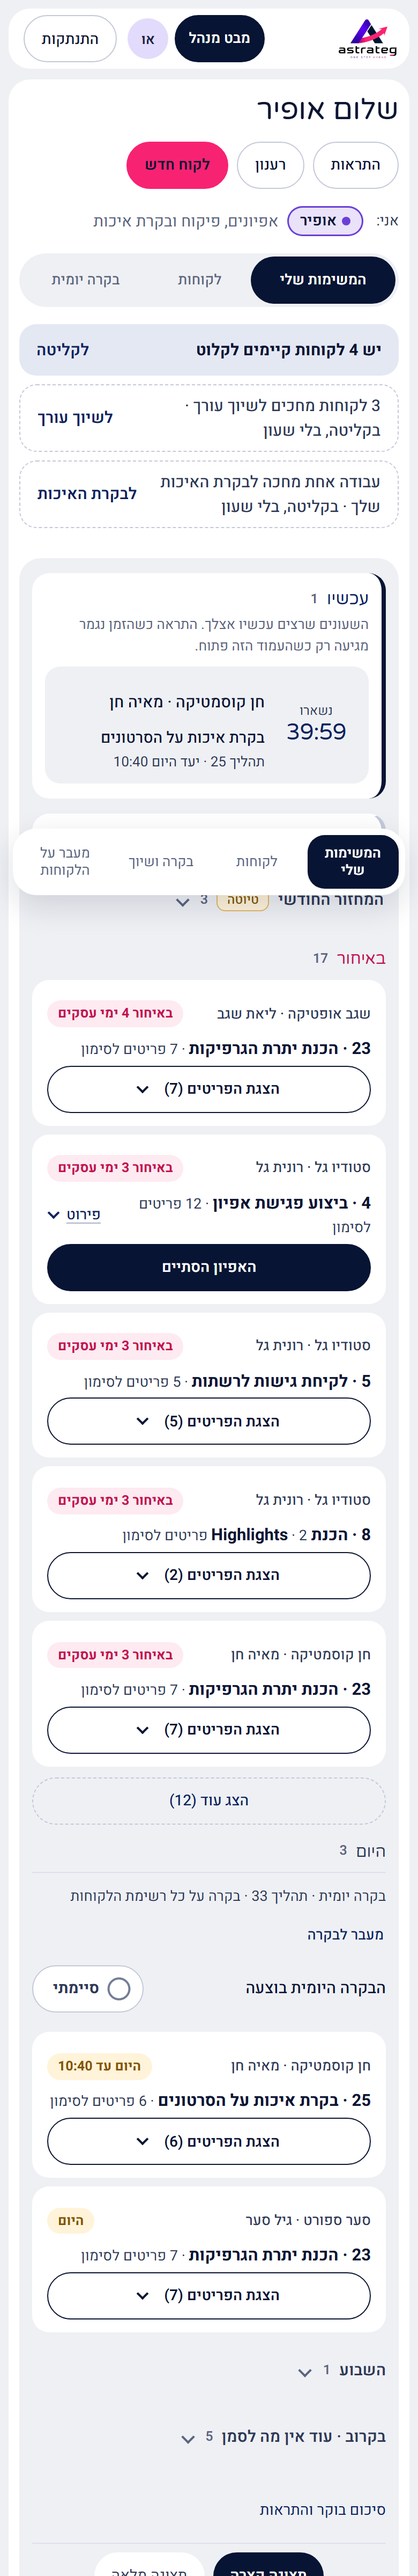
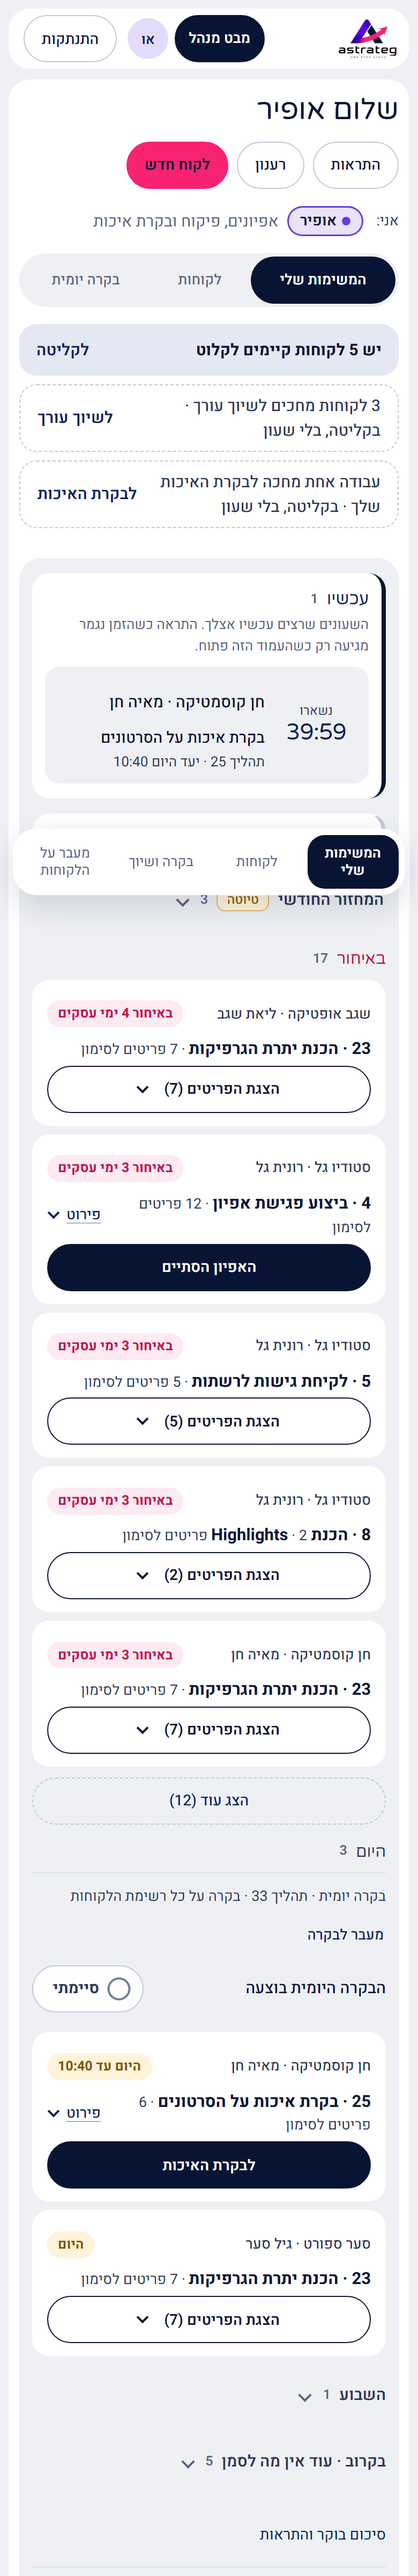
WIP all-in-mine: ops.md section 46, before and after screenshots from one fixture

Changed region(s): [[0.0923, 0.8125, 0.9231, 1.0], [0.5231, 0.9375, 0.8, 1.0]]

diff --git a/docs/ops.md b/docs/ops.md
@@ -1771,3 +1771,108 @@ order by id desc limit 30;
 4. **אישור לקוח בדף המצב:** עירית מקבלת עדכון על כל אישור, וליאור על התסריטים. מספיק, או גם אופיר / העורך על כל אישור?
 5. **העורך הקודם בהחלפת עורך** מקבל "העריכה עברה ל…". האם גם בעל משימה שהמשימה שלו הועברה צריך הודעה (היום לא, כי ייתכן שהוא זה שהעביר)?
 6. **הקבצה:** כמה שאלות לאותו אדם באותה דקה (יותר מ־4) יוצאות כפוש אחד עם רשימה. להשאיר, או ששאלות תמיד יוצאות אחת־אחת?
+
+
+## 46. "המשימות שלי" הוא המקום האחד: כל מה שמחכה לאדם מופיע שם, גם כשעושים אותו בעמוד אחר (כלל הבעלים, 8.10.2026)
+
+*אין מיגרציה, אין פונקציית Edge לפרוס ואין סוד חדש: פרסום האתר בלבד. הכללים: `app/mine-flow.js` (`flowLines`, `flowNeeds`; בלי DOM), הקריאות: `app/mine-flow-data.js`. המסכים: `app/clients.js`, `app/intake-ui.js` (`intakeShortcut`), `app/qa.js`, `app/decisions.js`, `app/prep.js`, `app/ilai-card.js`, `app/protocol-ui.js` (`landingTag`), `app/styles/protocol.css`. הבדיקות: `tests/mine-flow.test.mjs`, `tests/all-in-mine-e2e.mjs`, והמשרד המדומה `tests/flow-world.mjs`. התמונות: `docs/design/all-in-mine/` (לפני ואחרי, 390 פיקסלים; `shots.mjs` מצלם, `audit.mjs` מדפיס לכל תפקיד מה יש בכל עמוד ומה כתוב ב"המשימות שלי").*
+
+**התלונה:** הבעלים נכנס כאופיר. ב"בקרה ושיוך" חיכו 14 לקוחות לשיוך עורך, וב"המשימות שלי" לא היה להם זכר. **למה:** כל 39 הלקוחות שיובאו נמצאים בקליטה (סעיף 41), ו"המשימות שלי" לא מציג עבודה של לקוח בקליטה; "בקרה ושיוך" כן מציג אותה, בלי לומר שזה לקוח בקליטה. אותה עבודה "חיכתה" בעמוד אחד ולא נראתה בבית של האדם. בבדיקה לפי תפקיד נמצאו עוד תורים כאלה, גם בלי קשר לקליטה.
+
+**הכלל:** שום דבר לא מחכה לאדם רק בעמוד צדדי. רוב העבודה היא פריט בפרוטוקול, ולכן כבר כרטיס ברשימה. מה שאינו פריט (תור של עמוד אחר), ועבודה על לקוח בקליטה, מקבלים ב"המשימות שלי" **שורה סופרת אחת**: מה מחכה, כמה, וקישור ישר למקום שבו עושים את זה. תור ריק לא מציג שורה. לא מעתיקים תורים שלמים לדף הבית.
+
+**א. איך נראית שורה**
+- משפט אחד וכפתור־קישור: "עריכה אחת עצורה מאתמול ומחכה להחלטה שלך · להחלטה". כל השורה היא הקישור (48 פיקסלים).
+- **עם שעון:** השורה יושבת בראש הקבוצה של הדחיפות שלה ברשימה ("דחוף", "חריגות שדווחו", "באיחור", "היום", "מחר", "השבוע", "בהמשך"), ונספרת במספר של הקבוצה.
+- **לקוח בקליטה:** השורה יושבת מתחת ל"יש N לקוחות קיימים לקלוט", במסגרת מקווקוות כמו התווית "בקליטה", בלי צבע, ומסתיימת תמיד במילים "בקליטה, בלי שעון". למשל: "14 לקוחות מחכים לשיוך עורך · בקליטה, בלי שעון · לשיוך עורך".
+- השורות מוצגות רק ברשימה של האדם עצמו (לא ב"עבודת הצוות" ולא ברשימה של עובד אחר), ולבעלים אין שורות (ראו "שאלות פתוחות").
+- הקישור נפתח על הקטע הנכון: `qa.html#assign-h`, `#qa-h`, `decisions.html#ur-h`, `#ex-h`, `#ac-h`, `#pz-h`, `#cp-h`, `#cq-h` גוללים לכותרת ומעבירים אליה את המיקוד (חדש); `prep.html#availability` ו־`shoot.html#availability` כבר עבדו.
+- **שום שורה לא מובילה לעמוד שמסרב לקורא** (סעיף 43): בדיקה משווה כל קישור לתפריט של אותו אדם (`menuOf`), ובדפדפן לוחצים על כל שורה.
+- **בלי קפיצה (סעיף 42):** השורות נקראות יחד עם השורות הראשונות של העמוד, לפני שהוא מוצג. כל אדם נשאל רק על מה שהשורות שלו סופרות (`flowNeeds`): ליאור שתי קריאות (גישות, בקשות שינוי), עירית אחת או שתיים (הודעות היום; זמינות מה־16 בחודש), אלי אחת, אופיר אפס (רק מודול). קריאה שנכשלה: השורה שלה לא מוצגת, והעמוד עובד.
+- **המספר הוא המספר של העמוד עצמו:** כל תור נספר באותה פונקציה שהעמוד שלו סופר בה (`qaQueue`, `awaitingEditor`, `pausedSinceYesterday`, `campaignCheck`, `urgentState`, `editorState`, `askOf`).
+
+**ב. קיצורי דרך בכרטיסים (עבודה שהיא פריט, ונעשית בעמוד אחר)**
+- הכרטיס של אופיר "22א · העברה לעריכה ושיוך לעורך" קיבל כפתור "שיוך עורך", שפותח את השיוך של אותו לקוח ב"בקרה ושיוך" (`qa.html#assign-<לקוח>`). הכרטיס "25 · בקרת איכות על הסרטונים" קיבל "לבקרת האיכות". כך גם בכרטיס הלקוח. לעירית, שיש לה פריט ב־22א והעמוד מסרב לה, אין כפתור כזה; לליאור (שהפריט העיקרי שלו שם הוא מסירת הכונן) גם לא.
+
+**ג. קליטה: אותו מראה בכל מקום**
+מה שקליטה אומרת לא השתנה (אין שעונים, אין איחור, אין תזכורות עד ההפעלה). השתנה רק שרואים את זה:
+
+| עמוד | לפני | עכשיו |
+|---|---|---|
+| "המשימות שלי" | העבודה לא הופיעה (רק "יש N לקוחות קיימים לקלוט") | שורה סופרת לכל תור, "… · בקליטה, בלי שעון", עם קישור |
+| `qa.html`, "ממתינים לשיוך עורך" | כרטיס רגיל, בלי סימן; בדיאלוג "לשייך עד 12:00…" | התווית "בקליטה" ליד השם, בלי "באיחור"; בדיאלוג "בקליטה · בלי שעון עד שהלקוח יופעל" |
+| `qa.html`, תור הבקרה | "מחכה 0 דק׳ מתוך שעה · בקרה עד…" ומד ריק | התווית, השורה "בקליטה · בלי שעון עד שהלקוח יופעל", בלי מד ובלי שעה |
+| `qa.html`, "הוחזרו לתיקון" ועומס העורכים | המילה "בקליטה" כטקסט בעומס בלבד | התווית בשניהם, ובלי צבע איחור על המועד |
+| `decisions.html` | בלי סימן | התווית ליד שם הלקוח בחריגות, בדחופות, בגישות, בעריכה העצורה, בקמפיינים, ברשימות ובבקשות שינוי; שורה ברשימות של לקוח בקליטה לא מסומנת "באיחור" |
+| `prep.html` | בלי סימן | התווית ליד שם הלקוח בכרטיס יום הצילום |
+| `pass.html` | התווית כבר הייתה | לא שונה (נבדק: לקוח בקליטה לא "תקוע" ולא באיחור) |
+| הכרטיסים של עילאי ב"המשימות שלי" | לקוחות בקליטה הופיעו בלי סימן (ובלי מועד) | התווית ליד השם |
+
+**מה לא נוטרל, בכוונה (כמו בסעיף 41):** משימה שאדם פתח, משימה דחופה וגישה שבורה של לקוח בקליטה נשארות עם הצבע והמועד שלהן; הן מקבלות רק את התווית. עריכה עצורה של לקוח בקליטה נספרת בשורה נפרדת, בלי שעון.
+
+**ד. הטבלה: לכל תפקיד, כל תור, האם הופיע ב"המשימות שלי", מה נוסף, ואיזה כלל תזכורת מנדנד** (`app/reminder-rules.js`; "אין" = אין כלל שמזכיר את זה)
+
+| תפקיד | התור (העמוד) | הופיע לפני? | מה נוסף | כלל תזכורת |
+|---|---|---|---|---|
+| אופיר | שיוך עורך (`qa.html`), לקוח עם שעון | כן, כרטיס 22א | כפתור "שיוך עורך" בכרטיס | `assign`, `late` |
+| אופיר | שיוך עורך, לקוח בקליטה | **לא** | שורה "N לקוחות מחכים לשיוך עורך · בקליטה, בלי שעון" | אין (בקליטה אין תזכורות) |
+| אופיר | תור בקרת האיכות, עם שעון | כן, כרטיס 25 / 23 ושעון ב"עכשיו" | כפתור "לבקרת האיכות" בכרטיס 25 | `qa` |
+| אופיר | תור בקרת האיכות, בקליטה | **לא** | שורה "… מחכה לבקרת האיכות שלך · בקליטה, בלי שעון" | אין |
+| אופיר | האפיונים של היום | כן, כרטיס 4 ו"בקרוב" | — | `char` |
+| אופיר | "הוחזרו לתיקון", עומס עורכים | מידע, לא עבודה שלו | — | — |
+| אופיר | המעבר על הלקוחות, תקינות הנתונים (`pass.html`) | כן, "בקרה יומית · תהליך 33" ב"היום" | — | `control33` |
+| אופיר | סיכום חמישי | כן, כרטיס "מעבר חובה של יום חמישי" | — | `thursday` |
+| אופיר | חריגות כשליאור ביום צילום (`decisions.html`) | **לא** (רק פס ב־`qa.html`) | שורה ב"חריגות שדווחו": "ליאור ביום צילום: N חריגות עוברות אליך" | `exception`, `urgent` |
+| אופיר, ליאור, הבעלים | חוזים חריגים לאישור | כן, הכרטיס בראש | — | `contractApproval` |
+| ליאור | חריגות שדווחו (`decisions.html`) | כן, "חריגות שדווחו" | — | `exception` |
+| ליאור | משימה דחופה שלו | כן, "דחוף" | — | `urgent` |
+| ליאור | משימה דחופה של אחר שלא התחילה תוך 30 דקות | **לא** | שורה ב"דחוף" | `urgent` (השלב `lior`) |
+| ליאור | גישה שבורה שסומנה בכרטיס הלקוח | כן, המשימה "לשחזר את הגישה ל־…" | — | `broken` |
+| ליאור | גישה שבורה בלי משימה (טופס הלקוח, הבדיקה של עילאי) | **לא** | שורה ב"היום" | `broken` |
+| ליאור | עריכה שעדיין עצורה מאתמול | **לא** | שורה ב"היום" (בקליטה: שורה שקטה) | `paused` (השלב `morning`) |
+| ליאור | בדיקת הקמפיינים השבועית | **לא** (והתזכורת עצמה מובילה ל"המשימות שלי") | שורה ב"היום", ומיום רביעי ב"באיחור" | `campaignCheck` |
+| ליאור | בקשות שינוי מאופיר | **לא** | שורה ב"היום" | `changeRequest` |
+| ליאור | "מהרשימות של 12:00 ו־16:00" | לא | **לא נוסף** (ראו ממצאים) | הרשימות עצמן הן התקציר שנשלח פעמיים ביום |
+| ליאור | שיוך עורך בקליטה (הוא בעלים של 22א עם אופיר) | לא | אותה שורה כמו אצל אופיר | אין |
+| ליאור, עירית | יום צילום קרוב (14 יום) של לקוח בקליטה | **לא** (הפריטים של 11–16 לא ברשימה) | שורה שקטה; עירית ל־`prep.html`, ליאור ל־`shoot.html` | אין (לכן יש לבעלים "מפעילים" ללקוחות האלה, סעיף 41) |
+| ליאור | תדריך לצלם, יום הצילום (`shoot.html`) | כן, כרטיסי 16–21 | — | `briefing`, `shoot` |
+| עירית | ההודעות היומיות ללקוחות (`messages.html`) | **לא** | שורה ב"היום": "N לקוחות עוד לא קיבלו הודעה היום (ועוד M בקליטה)" | `dailyMessages` |
+| עירית, ליאור | הצלם לא מסר זמינות (מה־16 בחודש; `prep.html#availability`) | **לא** | שורה ב"באיחור" | `availabilityMissing` |
+| עירית | לפני יום צילום: תיאום, חוסמים, בדיקת יום לפני (`prep.html`) | כן, כרטיסי 11, 14, 15 עם כפתור לעמוד | — | `shootDate`, `blockers`, `eve` |
+| עירית | בקשות לקוחות, "לעדכן את הלקוח" | כן, משימות | — | `task`, `tell` |
+| עירית | עסקאות חדשות מהשטח; חוזים חריגים שחזרו אליה | כן, הכרטיסים בראש | — | `dealNew`, `contractDecided` |
+| עירית | בקרה יומית (32) | כן, כרטיס ב"היום" | — | `control32` |
+| עירית, ליאור, הבעלים | חידושים (`year.html`) | כן, כרטיס 34 מ־60 יום לפני הסיום; הרשימה של 90 יום היא מבט קדימה | — | `renewal` |
+| עילאי | גרפיקות, תיקונים מאופיר, גרסאות סופיות, גאנט | כן, הכרטיס שלו | התווית "בקליטה" | `graphics9`, `graphicsRest`, `qaReturn`, `finalReady`, `publish` |
+| עילאי | לקוחות שלא מחוברים ל־Metricool; המחזור החודשי | כן, כרטיסים | — | `metricoolFailed` לכשל פרסום; ללקוח לא מחובר: אין |
+| העורכים וניראל | עריכה: קיבלתי כונן, מוכן לבדיקה, סגירה (`editor.html`) | כן, כרטיסי 22, 24, 27 | — | `editing`, `clientFixes` |
+| העורכים וניראל | **תיקונים שאופיר החזיר** | **לא** (הם סימוני בקרה, לא פריטים) | שורה לפי מועד התיקון: "לקוח אחד חזר מאופיר עם תיקונים" | `qaReturn` |
+| העורכים וניראל | עריכה של לקוח בקליטה | **לא** | שורה שקטה "N לקוחות בעריכה אצלך · בקליטה, בלי שעון" | אין |
+| ניראל | בריפים | כן, משימות | — | `task`, `briefDone` |
+| אלי | **הזמינות לחודש הבא** (`shoot.html#availability`) | **לא** | שורה לפי השלב: "בהמשך" עד ה־9, "השבוע" / "מחר" / "היום" עד ה־15, ואחריו "באיחור" | `availability` |
+| אלי | ימי הצילום, התדריך, הכונן | כן, כרטיסי 17ב–19ב ו"בקרוב" | — | `shoot`, `briefing`, `shootSet` |
+| סוכני השטח | העסקאות שלהם, נודניק | הבית שלהם הוא `deal.html`, והכול שם | — | `dealSigned`, `dealSent`, `nag` |
+| כולם | נודניק, שאלות אליי, שעוני "עכשיו" | כן, כרטיסים בראש | — | `nag`, `question` |
+| הבעלים | הפעלת לקוחות בקליטה | כן, השורה "N לקוחות קיימים עדיין בקליטה" | — | אין |
+| הבעלים | "מה דורש אותי" (`owner.html#now`) | לא; לחיצה אחת ב"מבט מנהל" | **לא נוסף** (ראו שאלות) | התקציר של 18:00 (`board`) |
+
+**ה. ממצאים: תורים בלי תזכורת, ומה שנמצא בדרך ולא שונה**
+1. **כל עבודה של לקוח בקליטה** (שיוך עורך, בקרת איכות, עריכה, יום צילום קרוב, עריכה עצורה, הודעה יומית): אין תזכורת, כי השרת לא טוען לקוח בקליטה. זה הכלל של סעיף 41, ולא שונה. מאז השינוי הזה היא לפחות כתובה ב"המשימות שלי". מי שרוצה גם נדנוד צריך להפעיל את הלקוח.
+2. **"מהרשימות של 12:00 ו־16:00" של ליאור** לא קיבלו שורה: אלה ההסלמות של האיחורים של אחרים, כלומר התקציר עצמו, שמגיע לטלפון פעמיים ביום. במשרד המדומה יש שם 60 שורות; מספר כזה בדף הבית הוא רעש. להחלטת הבעלים.
+3. **כרטיס 25 של אופיר נשאר "באיחור" גם אחרי שהחזיר את הסרטונים לתיקון** (העבודה אצל העורך). קיים מלפני השינוי ולא שונה: זה שינוי במה שנחשב פתוח, לא במסך.
+4. **`campaignCheck` שולח את ליאור ל־`clients.html#mine`**. עד היום לא היה שם דבר על הקמפיינים; עכשיו יש שם השורה. הכלל עצמו מזכיר רק ביום שלישי; ביום רביעי וחמישי אין תזכורת נוספת (רק השורה, ב"באיחור").
+5. **לקוח שלא מחובר ל־Metricool** (עילאי): כרטיס יש, תזכורת אין.
+6. **בלי נדנוד חוזר עד שמטפלים:** בקשת שינוי (צלצול אחד לליאור); גישה שבורה (שני צלצולים, ואחרי יום עסקים המסך של הבעלים); עריכה עצורה (שורה ברשימה, ושורה בתקציר הבוקר שאחרי).
+7. **ההודעות היומיות:** `messages.html` מציג גם לקוחות בקליטה ("27 לשליחה"), והשרת מזכיר רק על לקוחות פעילים. השורה סופרת את הפעילים, ואת אלה שבקליטה בסוגריים.
+
+**ו. מה לא אומת:** טלפון אמיתי; Firefox ו־Safari (נבדק ב־Chromium); קורא מסך אמיתי. הטבלה נבדקה מול המשרד המדומה (`tests/flow-world.mjs`) ומול הקוד, לא מול האתר החי.
+
+**ז. שאלות פתוחות לבעלים**
+1. **הבעלים:** להוסיף ב"המשימות שלי" שורה "N דברים דורשים אותך" שמובילה ל"מבט מנהל"? היום זה לחיצה אחת, והספירה דורשת קריאות ש"המשימות שלי" לא עושה.
+2. **הרשימות של ליאור** (ממצא 2): שורה אחת עם המספר, או להשאיר רק בתקציר?
+3. **הודעה יומית ללקוח בקליטה:** האם עירית אמורה לכתוב להם כל יום? אם לא, להוריד אותם מ־`messages.html` עד ההפעלה.
+4. **כרטיסי 22א ו־25 של אופיר** נשארו כרטיסים (עם הכפתור החדש). אפשר במקומם שורה סופרת אחת לכל תור ("6 לקוחות מחכים לשיוך עורך"), כמו בקליטה; זה מקצר את הרשימה, ומוריד את שם הלקוח מדף הבית.
+5. **ליאור רואה את "מחכים לשיוך עורך · בקליטה"** כי הוא בעלים של 22א יחד עם אופיר. להשאיר רק אצל אופיר?
+6. **תזכורות לתורים בלי נדנוד** (ממצאים 4–6): לא נוספו כאן כללים. להוסיף?
+
+**פריסה:** האתר בלבד (`node scripts/build-pages.mjs --commit`, סעיף 2). `node scripts/sync-functions.mjs --check`: אין שינויים (שום מודול משותף לפונקציות לא השתנה, והתזכורות לא נגעו).
